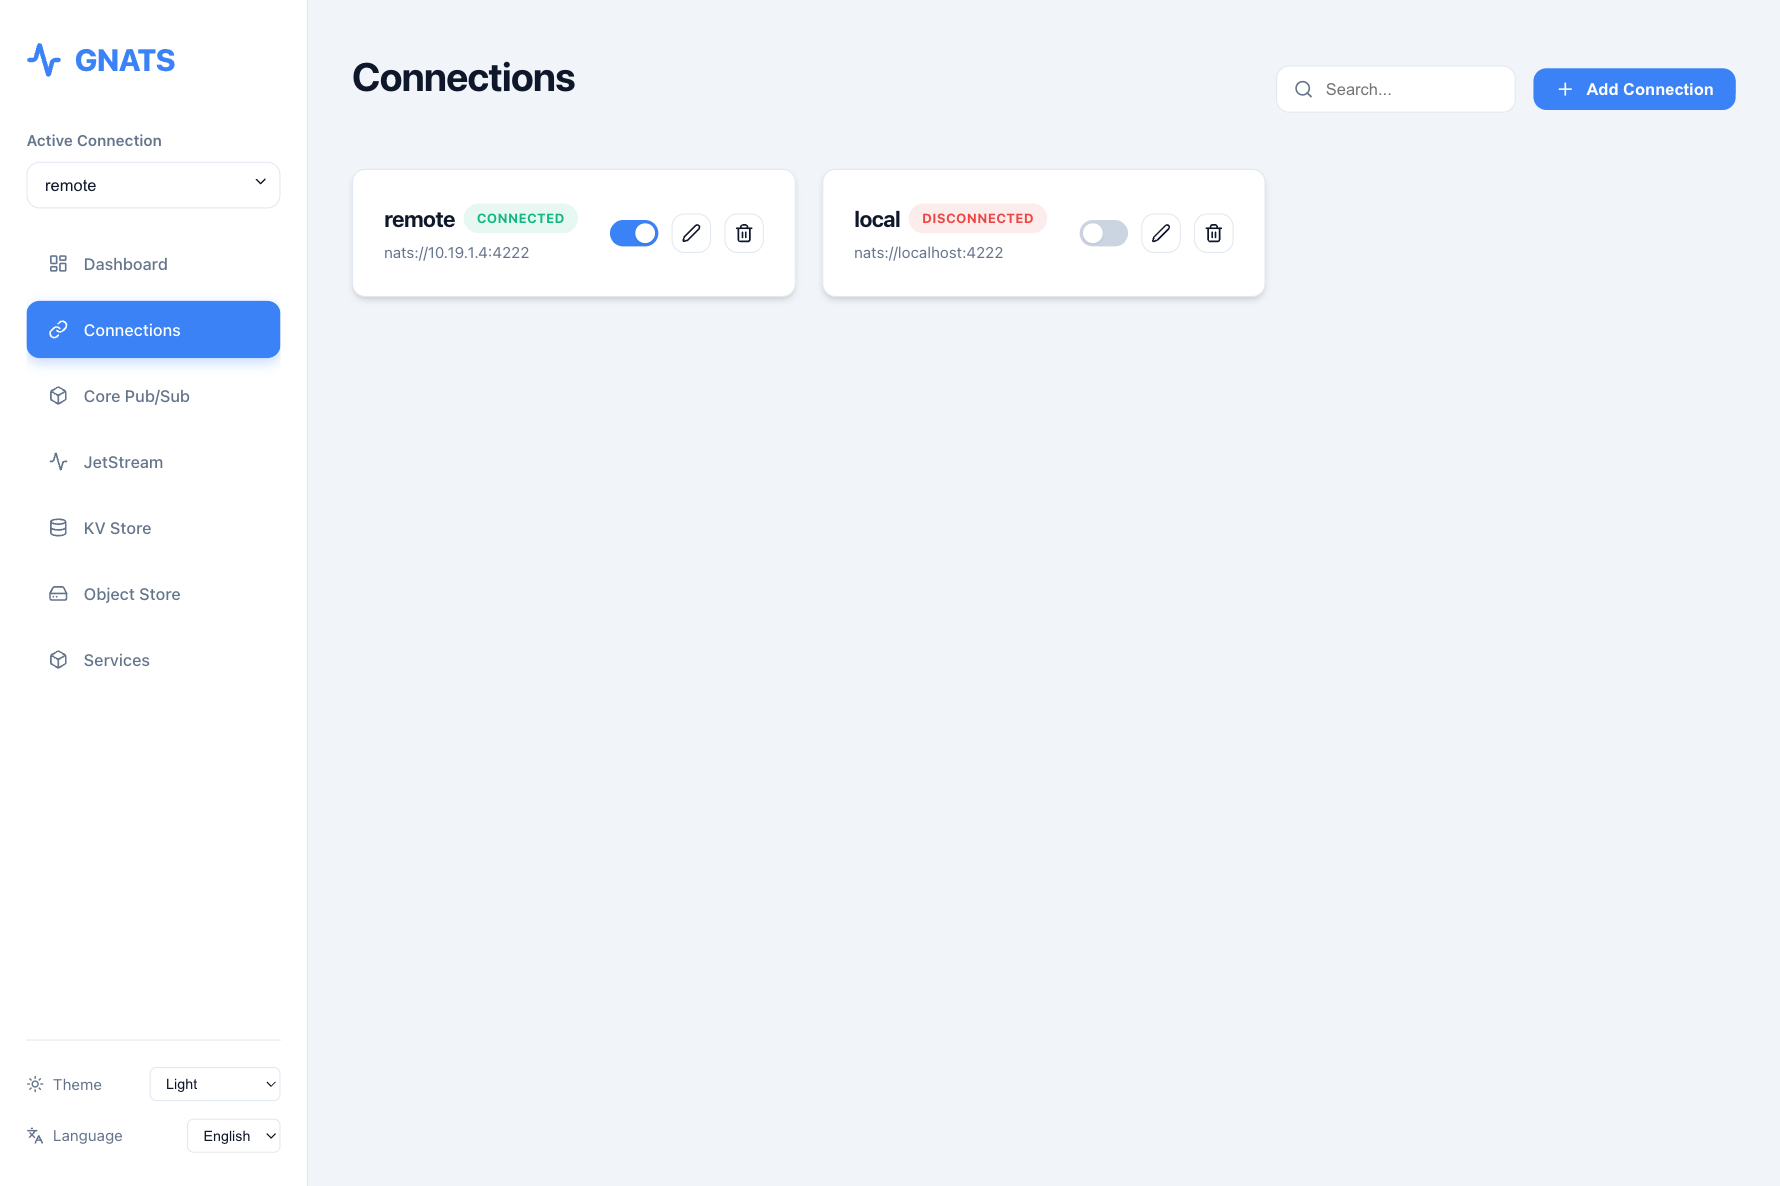
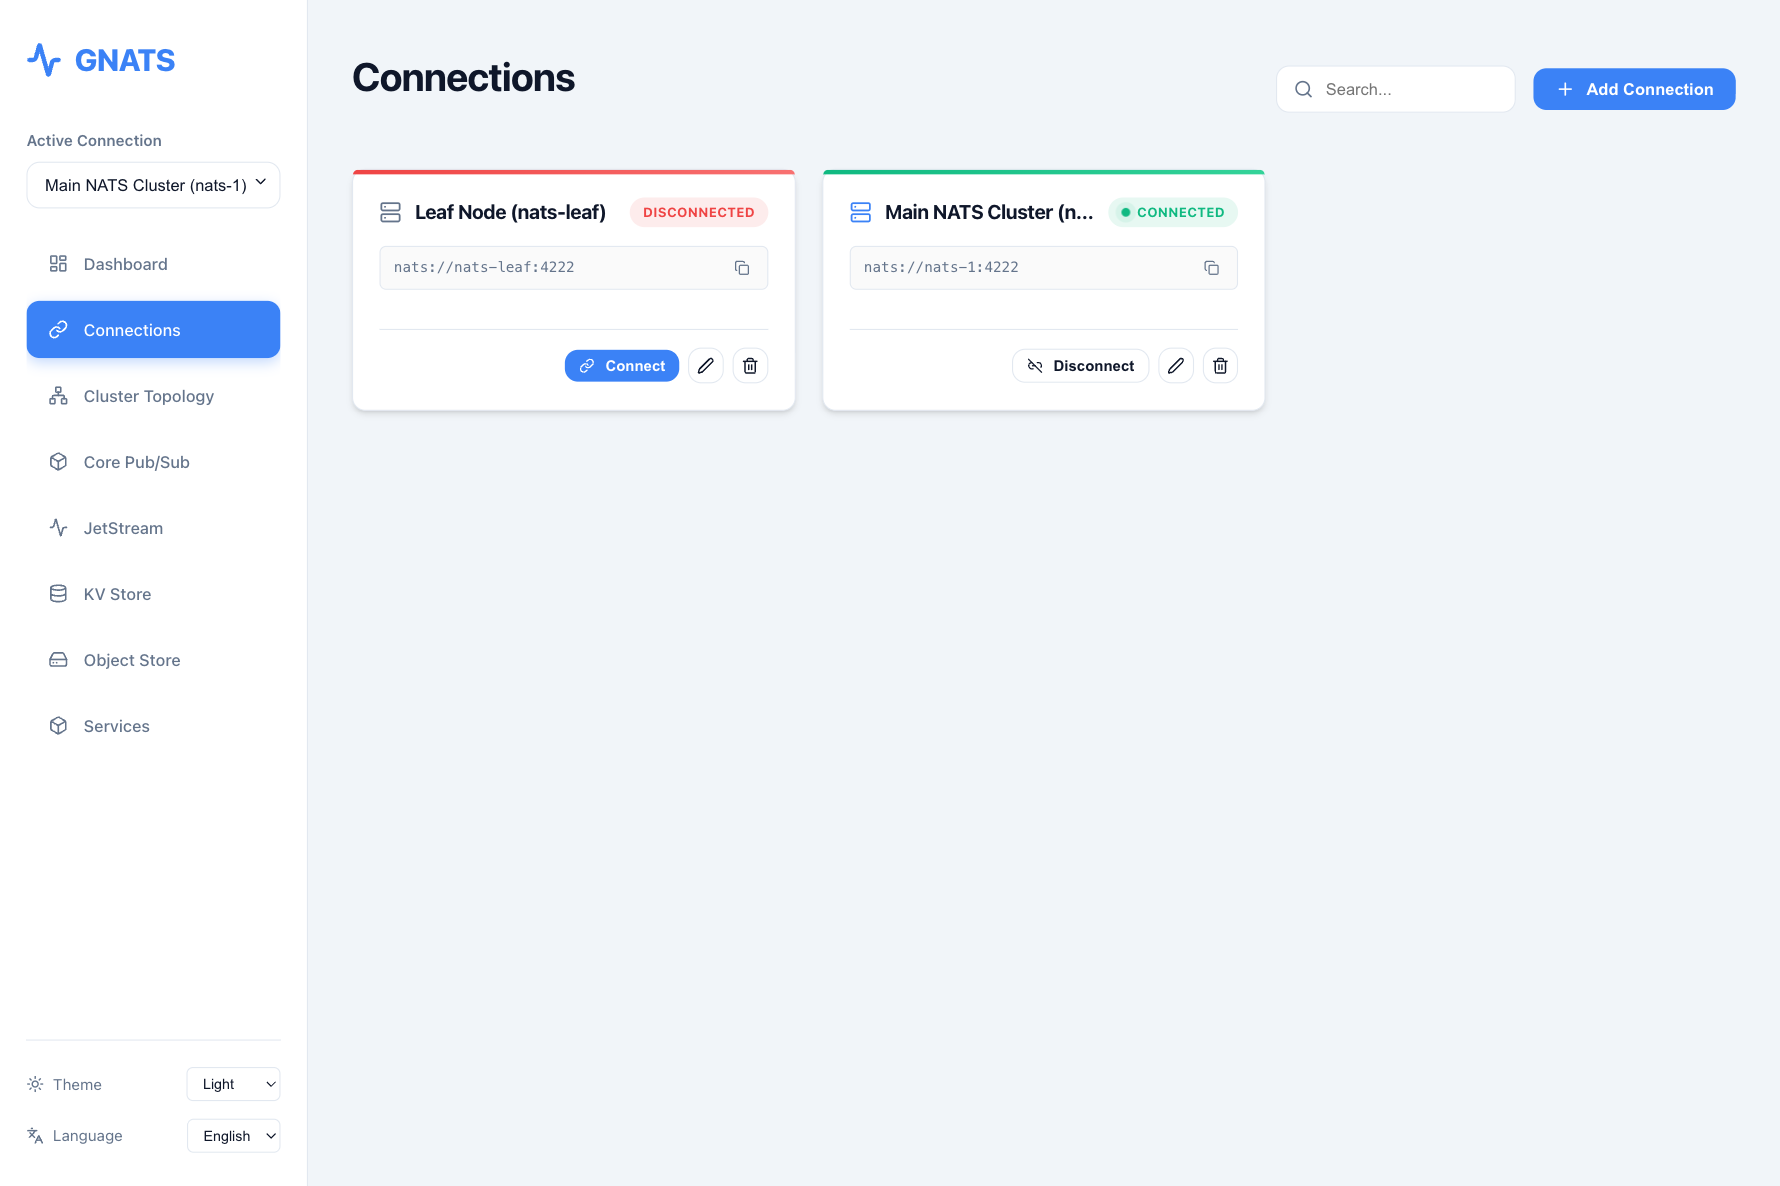
docs: add cluster topology diagrams to README and update asset documentation

diff --git a/README.md b/README.md
@@ -69,6 +69,10 @@ GNATS is a modern, lightweight, and powerful open-source management interface de
 ### Connection Management
 ![Connections](images/connections.png)
 
+### Cluster Topology
+![Cluster Topology](images/cluster-1.png)
+![Cluster Status](images/cluster-2.png)
+
 ### Core Pub/Sub
 ![Publish/Subscribe](images/pub-1.png)
 ![Request/Reply](images/pub-2.png)